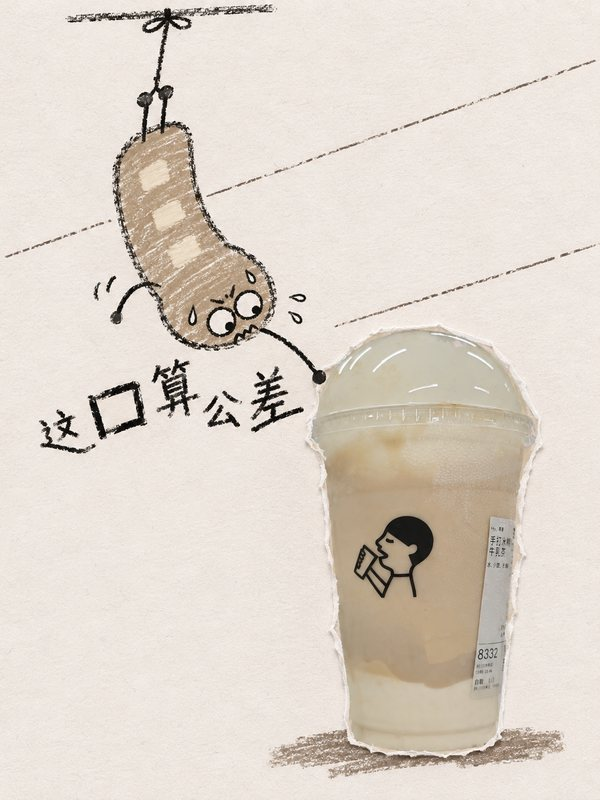
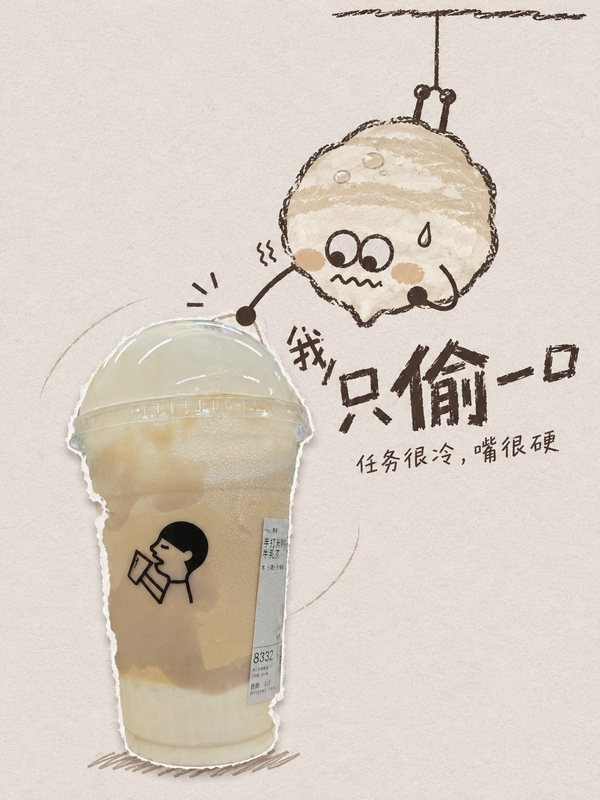
feat: 小怪兽身体改为由主体外形推出，可爱优先
- 身体从主体最显眼的外形或材质缩成一团，一律矮胖圆润
- 禁止细长、分节、毛毛虫式身体；搞怪靠表情和动作
- 更新示例图

diff --git a/SKILL.md b/SKILL.md
@@ -66,10 +66,12 @@ description: "纸怪兽：把一张照片做成一张会讲笑话的手作纸片
 
 单件物件或场景配一只；一组东西每件配一只，最多四只。用户说不要就不画。
 
+**优先级：可爱 > 像这张照片 > 搞怪 > 其他。** 搞怪靠表情和动作，不靠奇怪的身体。
+
 **先填一张配方卡（内部用）**
 
 ```
-身体：从形态里随机抽一种
+身体：从主体的外形推出来（见下）
 颜色：照片里的 1–3 个颜色，比原色略灰一点
 记号：照片里的一个配料或材质（珍珠、奶泡、冰块、芒果粒、瓦片、浪花……）画成身上的斑点、头顶的尖或肚子上的图案
 表情：随机抽一种
@@ -77,7 +79,21 @@ description: "纸怪兽：把一张照片做成一张会讲笑话的手作纸片
 镜头：同上
 ```
 
-**形态**：小圆球、小方块、云朵团、Q 版大头、水滴果冻、长条年糕、毛球、头上长芽的圆团，或者从这张照片的配料现编一个（珍珠串毛毛虫、冰块方糖仔、奶泡蘑菇头）。
+**身体怎么来**：看主体最显眼的外形或材质，把它**缩成一团**，变成小怪兽的身体，再从主体身上借一个特征当头顶或身上的记号。
+
+| 主体的样子 | 小怪兽的身体 |
+|---|---|
+| 圆顶杯盖、奶泡、冰淇淋球 | 软软的圆团，头顶一撮奶泡尖 |
+| 芒果粒、方糖、冰块、方形包装 | 圆角小方块，像一块软糖 |
+| 绵密奶盖、棉花糖、云、蓬松的东西 | 蓬松的云朵团 |
+| 珍珠、汤圆、灯球、圆形水果 | 圆滚滚的小球 |
+| 塔、杯子这类上窄下宽的 | 胖胖的水滴形或小饭团形 |
+| 植物、绿叶 | 圆团头顶长一两片小叶芽 |
+| 一组东西 | 每只照着自己那件推，形状可以不同，但都要圆胖 |
+
+**身材一律矮胖**：宽和高差不多（高最多比宽多两成），头身一体或大头小身子，像一颗软糖或一个小饭团。
+
+**不要**：细长的、一节一节的、像毛毛虫或虫子的、像蛇的、扁长条、多手多脚、尖刺、写实动物。直接把原来的东西加上手脚也不行（不要"长了腿的杯子"）。
 
 **表情**：嘴张得比自己还大、泪汪汪加颤嘴唇、星星眼、憋红脸鼓腮、坏笑眯眼、吓到炸毛、幸福眯成两条弧、冻得牙齿打颤、口水挂嘴角、满头大汗、斗鸡眼。
 
@@ -89,7 +105,8 @@ description: "纸怪兽：把一张照片做成一张会讲笑话的手作纸片
 - 用力、害怕、开心的时候身体要变形：被压扁、被拉长、炸开。
 - 可加 1–4 个漫画符号：汗滴、口水、抖动线、速度线、拖痕、爱心、小星星、"！"。
 - 大小：至少有物件的一半高，抢、扛、骑这类戏可以和物件一样大；场景图里至少占画面高度的四分之一。缩略图里要一眼看出它在干嘛。
-- 可爱第一。不要恐怖、黏液、肉感、触手、写实牙齿；嘴再大，里面也只画一块深色和一条小舌头。
+- 可爱检查：缩成指甲盖大小时，还会让人想说一句"好可爱"吗？不会就把身体改得更圆更矮、眼睛离得更近、脸颊加红晕，再考虑搞怪。
+- 不要恐怖、黏液、肉感、触手、写实牙齿；嘴再大，里面也只画一块深色和一条小舌头。
 - 不画任何品牌吉祥物或已有角色，只用通用的形状。
 
 **一张图只演一个动作**，而且要碰到主体：手抓着、身体压着、嘴对着、坐在上面。场景图里，小怪兽最好和撕口发生关系：扒着撕口往里看、坐在纸边上、从撕口钻出来。

diff --git a/README.md b/README.md
@@ -20,8 +20,8 @@
 
 | | | |
 |:---:|:---:|:---:|
-| <img src="assets/examples/01-roll.jpg" width="260"><br>大力士 ·「扛不动就滚」 | <img src="assets/examples/02-spy.jpg" width="260"><br>特工倒吊 ·「这口算公差」 | <img src="assets/examples/03-bath.jpg" width="260"><br>杯里泡澡 ·「这澡有点凉」 |
-| <img src="assets/examples/04-night-flight.jpg" width="260"><br>场景 · 骑云飞行 ·「今晚不落地」 | <img src="assets/examples/05-hide.jpg" width="260"><br>群戏 · 捉迷藏 ·「藏得真好」 | <img src="assets/examples/06-tug.jpg" width="260"><br>群戏 · 拔河 ·「谁松手谁请客」 |
+| <img src="assets/examples/01-roll.jpg" width="260"><br>大力士 ·「扛不动就滚」 | <img src="assets/examples/02-spy.jpg" width="260"><br>特工倒吊 ·「我只偷一口」 | <img src="assets/examples/03-bath.jpg" width="260"><br>杯里泡澡 ·「这澡有点凉」 |
+| <img src="assets/examples/04-tower.jpg" width="260"><br>场景 · 爬塔偷灯 ·「这口有点高」 | <img src="assets/examples/05-hide.jpg" width="260"><br>群戏 · 捉迷藏 ·「藏得真好」 | <img src="assets/examples/06-tug.jpg" width="260"><br>群戏 · 拔河 ·「谁松手谁请客」 |
 
 ## 工作方式
 
@@ -41,7 +41,7 @@
 1. **看**：先判断照片拍的是物件、场景还是一组东西。
 2. **撕**：物件只留东西本身（手和背景都去掉），场景整张撕成纸片，一组东西就每件各撕一张。
 3. **铺**：选一种纸色，再从照片里挑一个颜色灰化后当强调色。
-4. **养**：填一张配方卡，写明小怪兽的形态、颜色、记号、表情、剧情和镜头。
+4. **养**：照着主体的外形捏出一只矮胖的小怪兽（圆顶杯盖变软圆团、芒果粒变软糖方块），再填配方卡：颜色、记号、表情、剧情和镜头。可爱永远排第一，搞怪靠表情和动作。
 5. **写**：一句不超过 8 个字的心里话。调皮的用歪扭儿童字，安静的用宋体。
 6. **画**：按四层纸的顺序组装提示词，交给生图工具。
 7. **验**：检查归类、毛边、怪兽和字，哪项有问题只修哪项。

diff --git a/references/plots.md b/references/plots.md
@@ -4,7 +4,7 @@
 
 1. 先抽一类，再从这一类里抽一出戏；同一次对话里尽量换类。
 2. 再从文末抽一个镜头。
-3. 和形态、表情拼在一起后自问："跟这次对话里前面的图像不像？"像就换掉一项。
+3. 和小怪兽的身体、表情拼在一起后自问："跟这次对话里前面的图像不像？"像就换掉一项。
 4. 可以混搭（魔法 × 扛不动 = 骑着扫帚却被奶茶压得飞不起来）。比库里更贴合这张照片的点子优先。
 
 下面以饮品为例；换成别的东西时，按它的形状、重量、温度和用途改写。
@@ -42,7 +42,7 @@
 
 ## 群戏规则
 
-一组东西时每件孵一只，颜色取自自己那件，形态可以不同；一件东西也可以配一群同族。最多四只，每只的脸和动作都要看得清，彼此要有关系。
+一组东西时每件孵一只，身体和颜色都照着自己那件推，可以不同但都要圆胖；一件东西也可以配一群同族。最多四只，每只的脸和动作都要看得清，彼此要有关系。
 
 接力 · 拔河（各拽一根吸管，杯子被拉歪）· 叠罗汉够吸管（最下面那只快被压扁）· 抬轿游行 · 各护各的互相斜眼 · 劫案小队（放风、倒吊、看地图、开车）· 西部决斗（中间滚过一团风滚草）· 站在杯子上合唱，一只跑调 · 排队等一根吸管，最后那只急得跺脚 · 铺纸巾野餐 · 捉迷藏，屁股都露在外面
 
